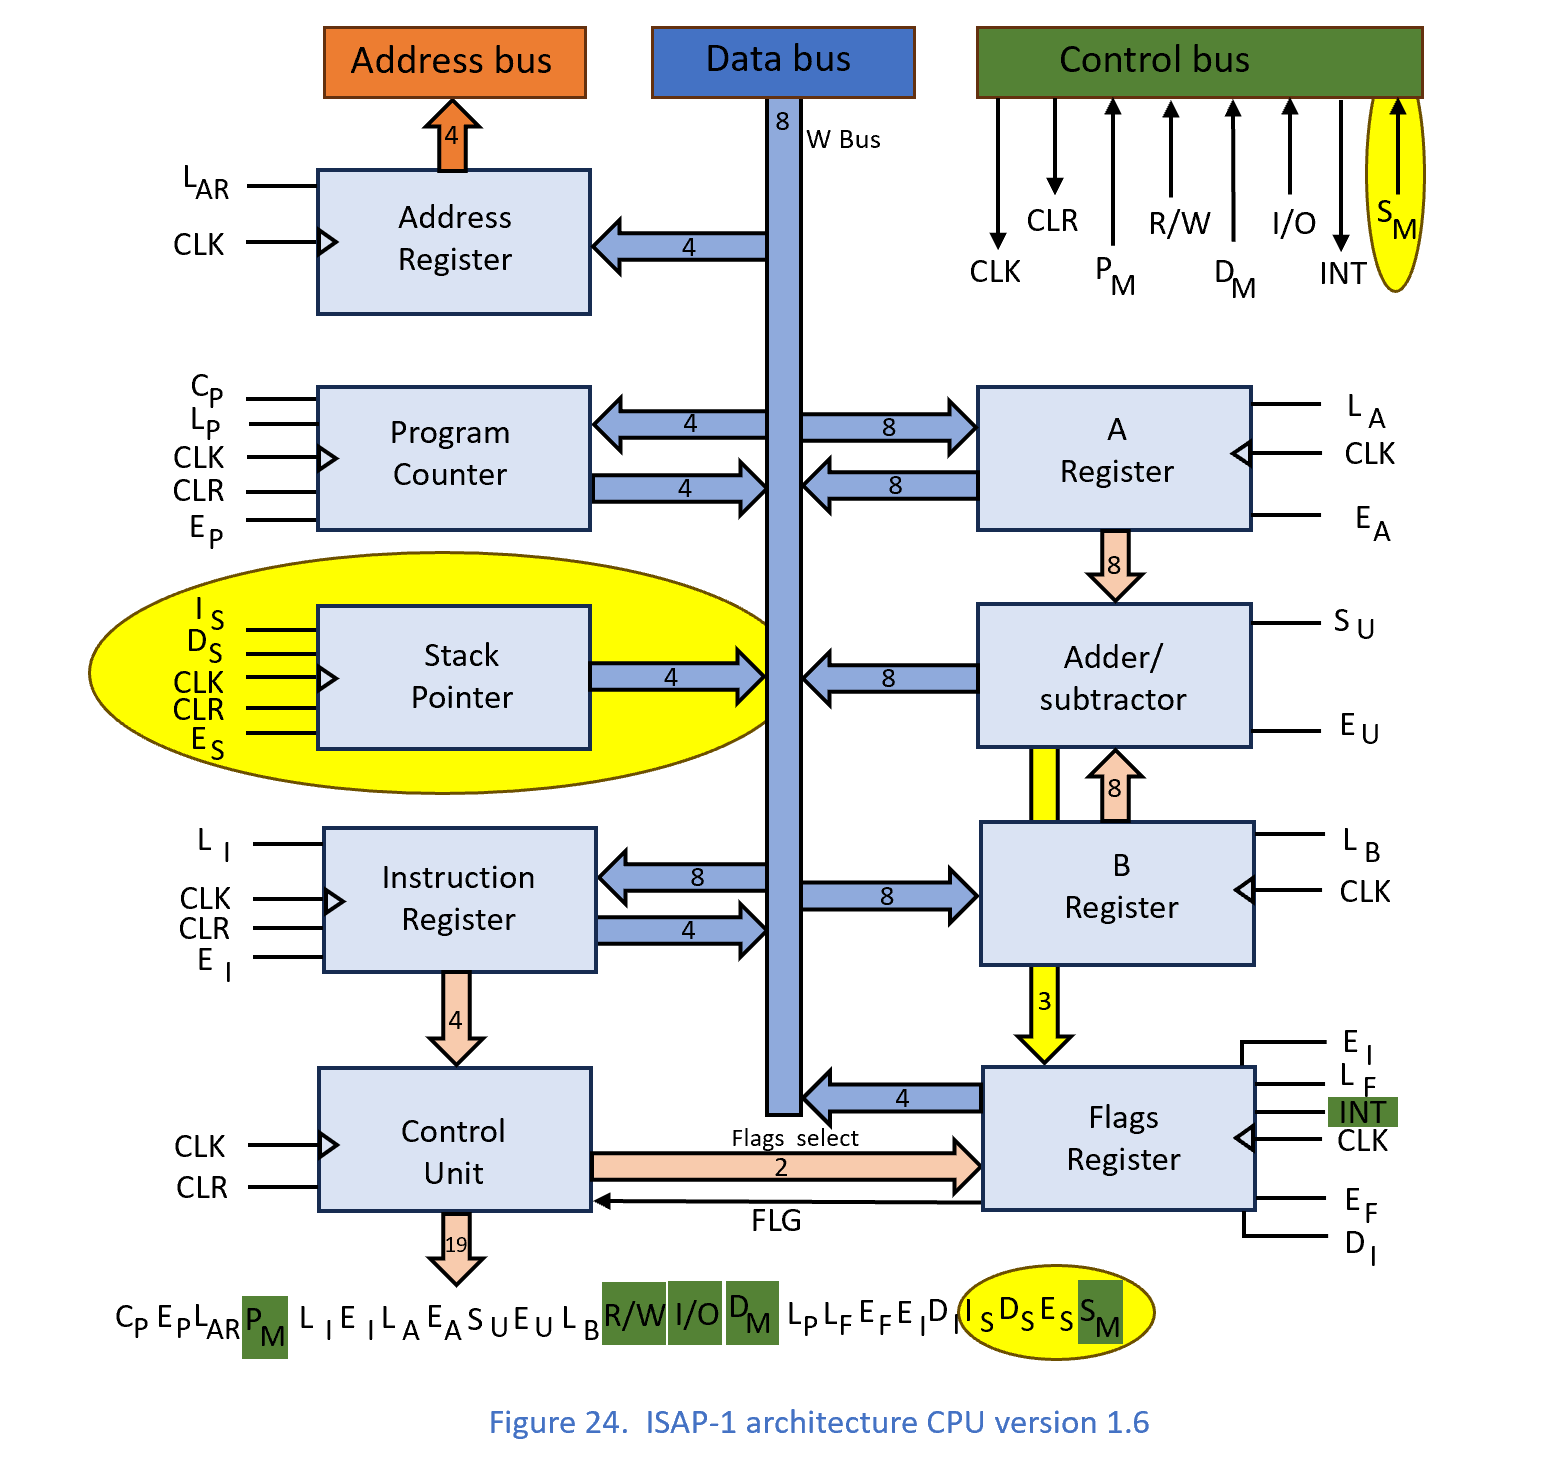
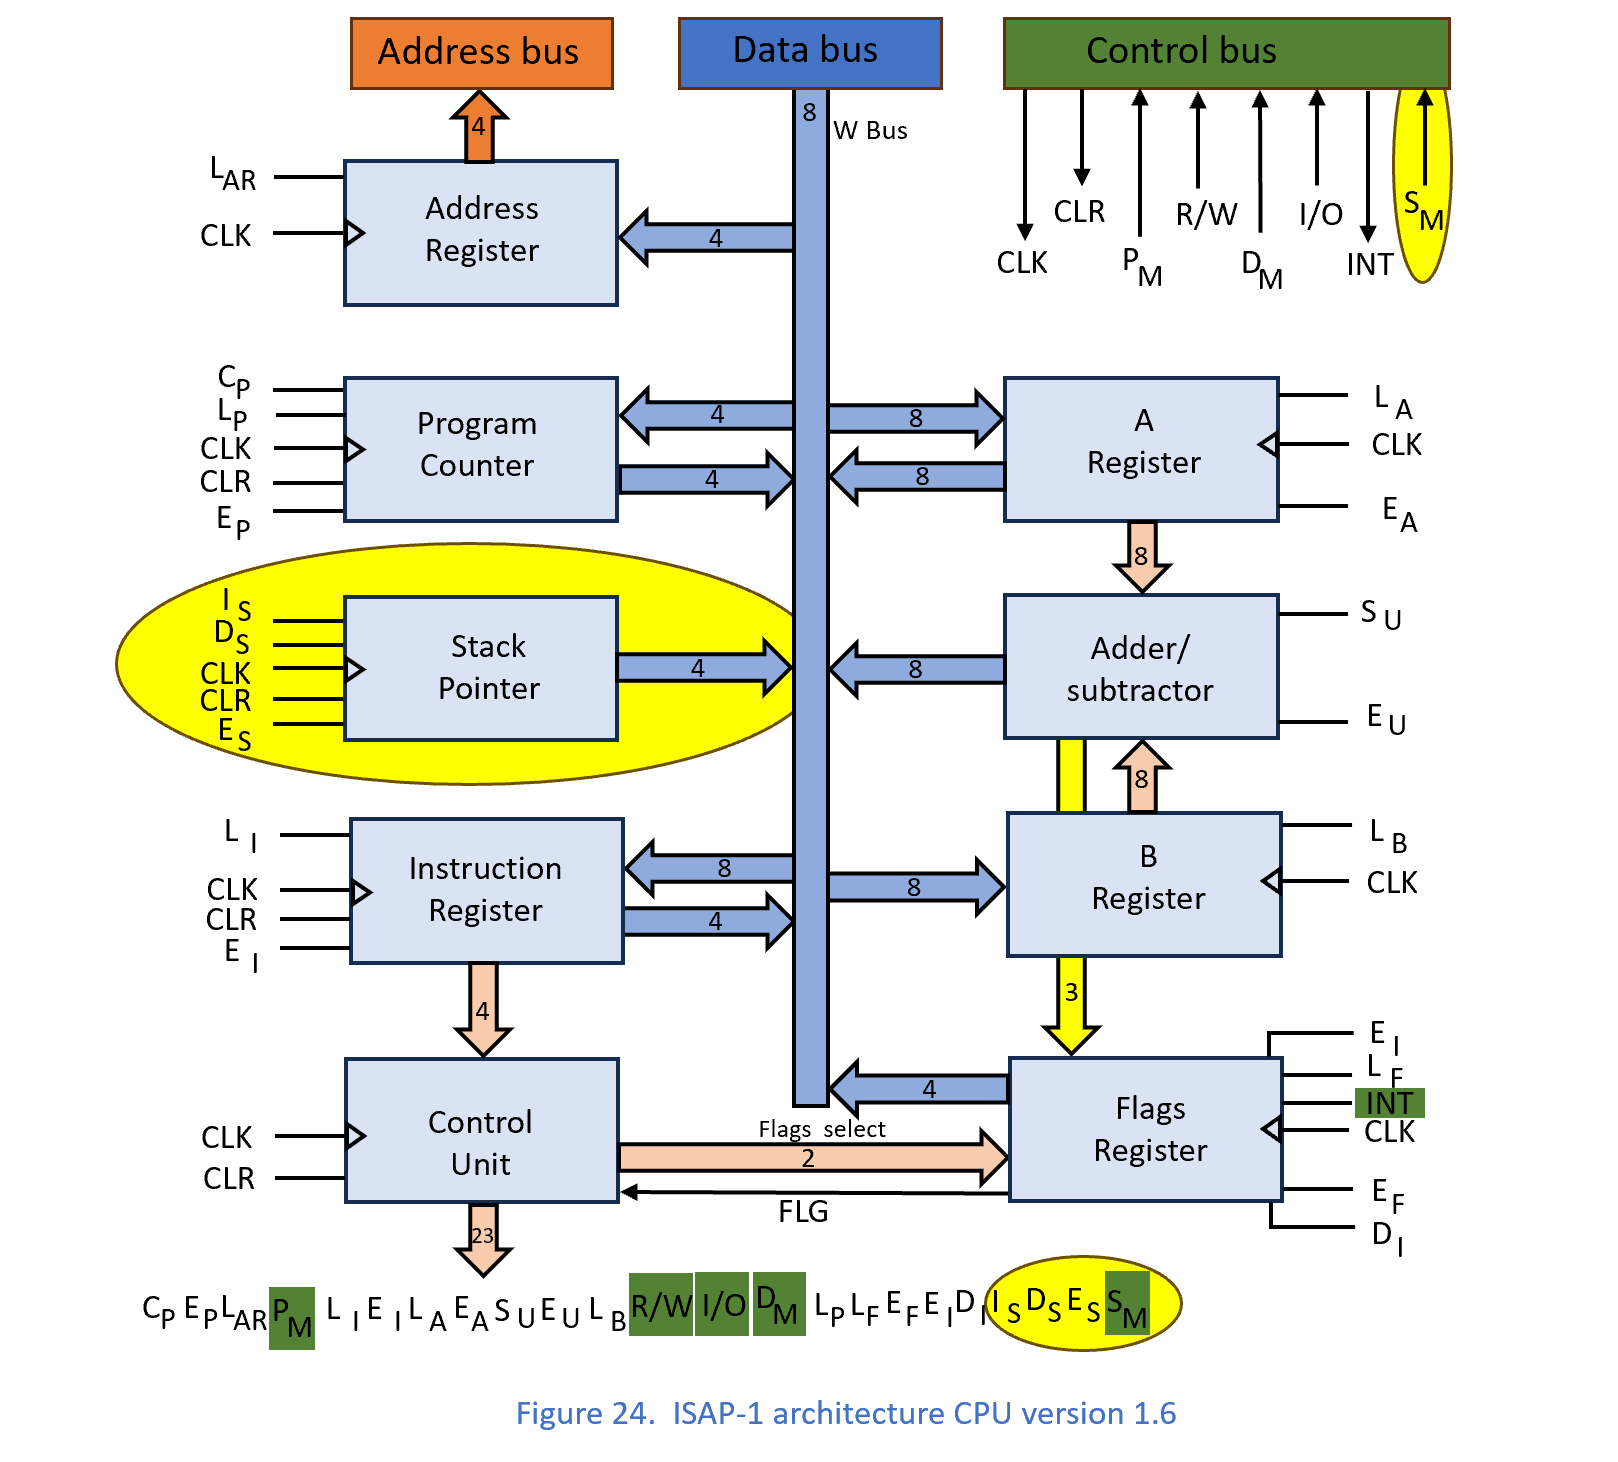
modified:   Pictures/Figure24.png

diff --git a/README.md b/README.md
@@ -403,4 +403,6 @@ For this purpose we can use a counter. It must be able to be incremented but als
 
 The Block Diagram of the system that has implemented the Stack Pointer is shown in the following figure.
 
+![ Figure 24 ](/Pictures/Figure24.png)
 
+Now we will have 25 command signals that must be provided by the Control Block.
